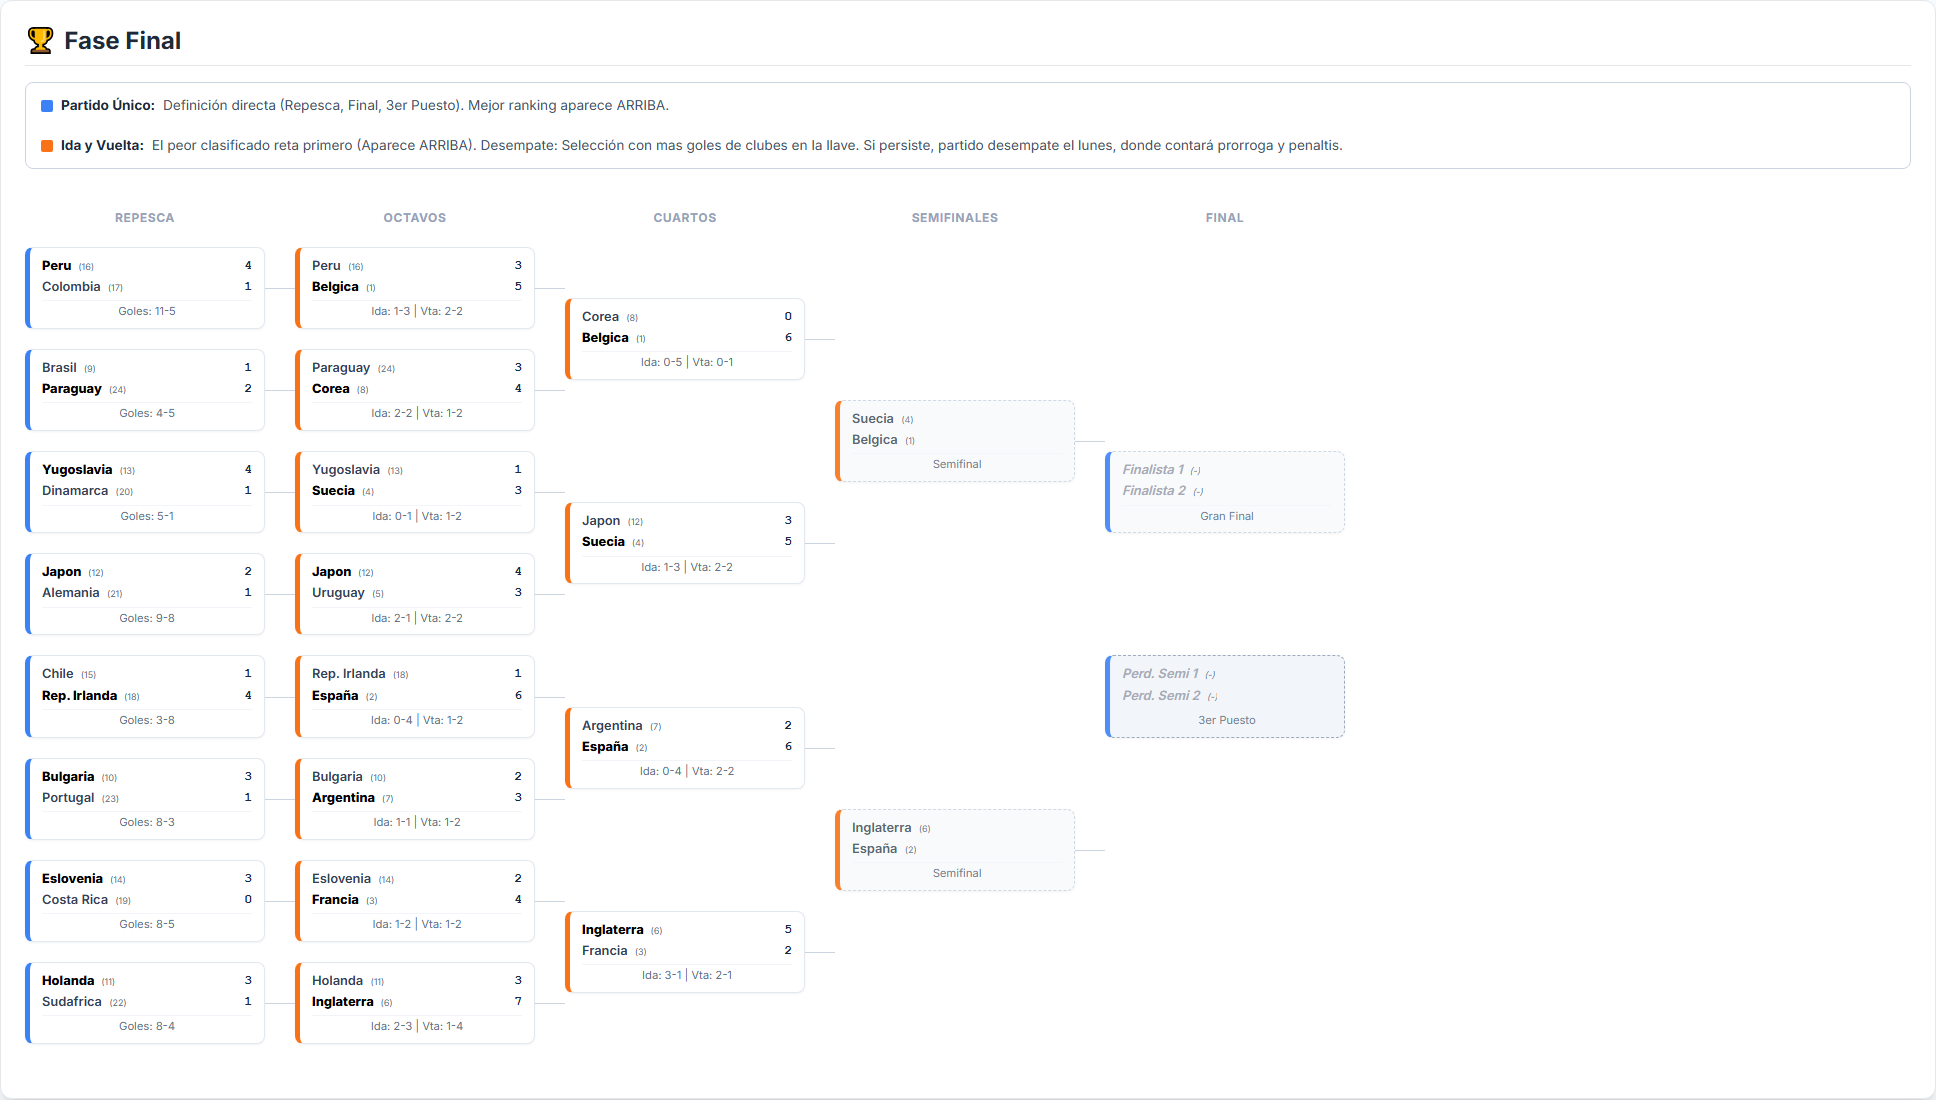
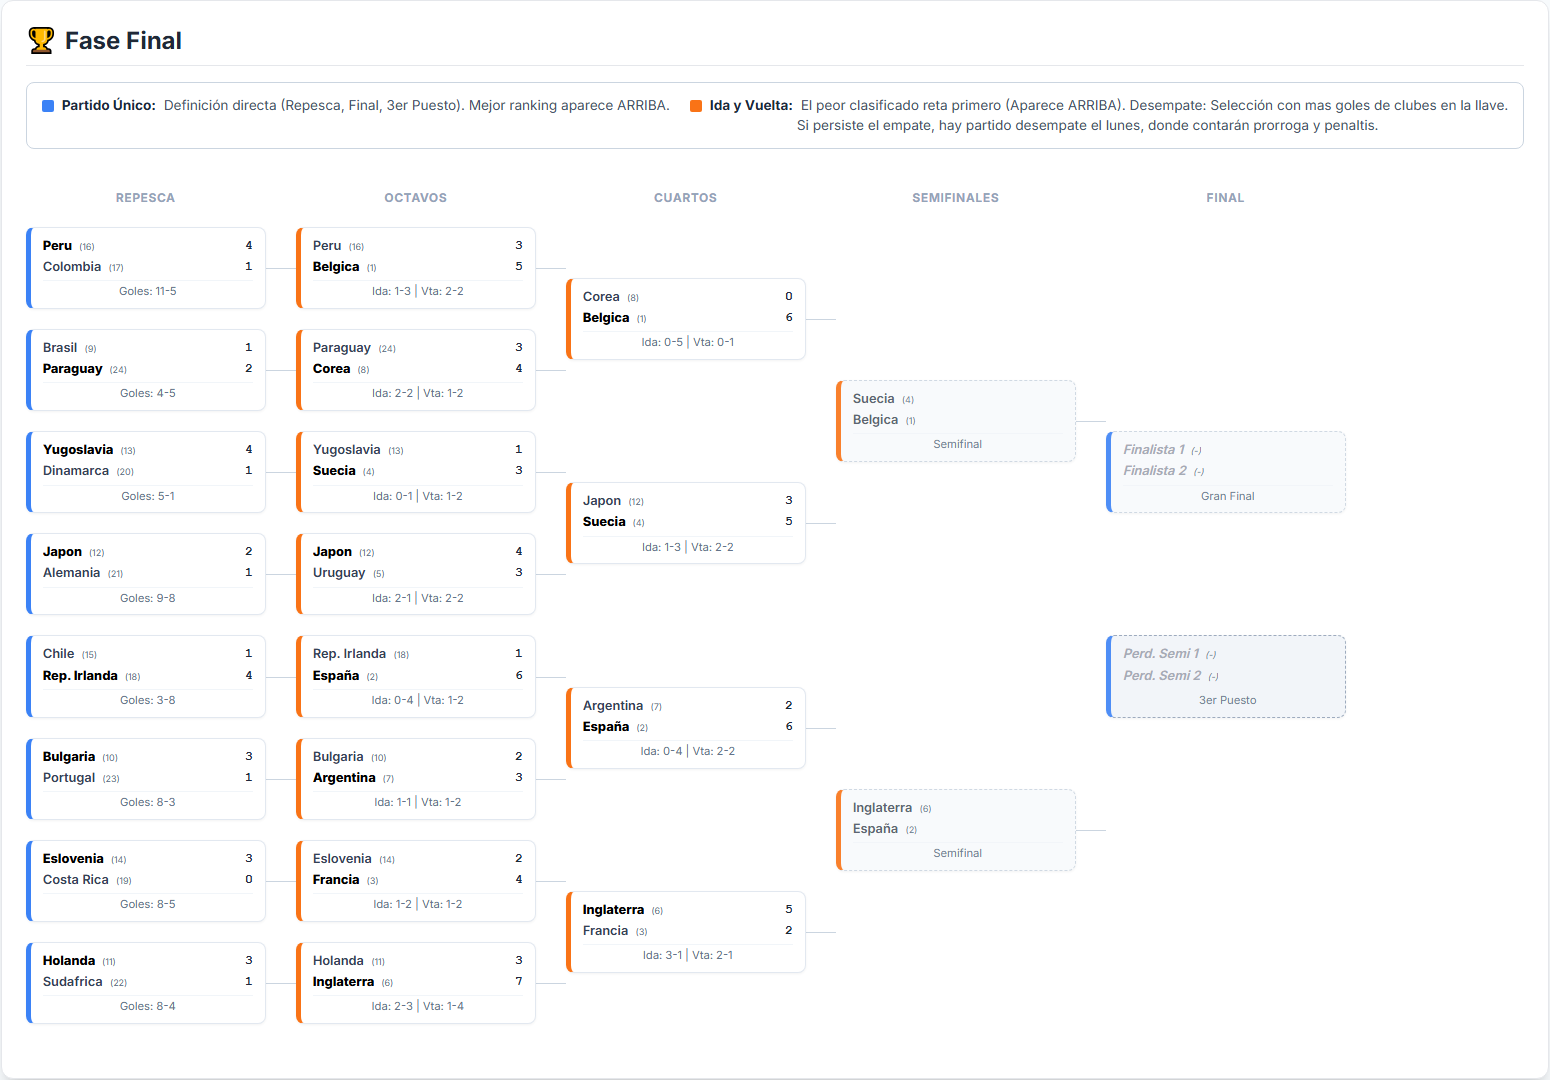
Actualización automática: 2025-12-16 20:49:31

diff --git a/index.html b/index.html
@@ -180,7 +180,8 @@
                 </div>
                 <div class="legend-item">
                     <span class="legend-indicator bg-orange-500"></span>
-                    <strong>Ida y Vuelta:</strong>&nbsp;El peor clasificado reta primero (Aparece ARRIBA). Desempate: Selección con mas goles de clubes en la llave. Si persiste, partido desempate el lunes, donde contará prorroga y penaltis.
+                    <strong>Ida y Vuelta:</strong>&nbsp;El peor clasificado reta primero (Aparece ARRIBA). Desempate: Selección con mas goles de clubes en la llave.<br>
+                    Si persiste el empate, hay partido desempate el lunes, donde contarán prorroga y penaltis.
                 </div>
             </div>
             <div class="bracket-wrapper">
